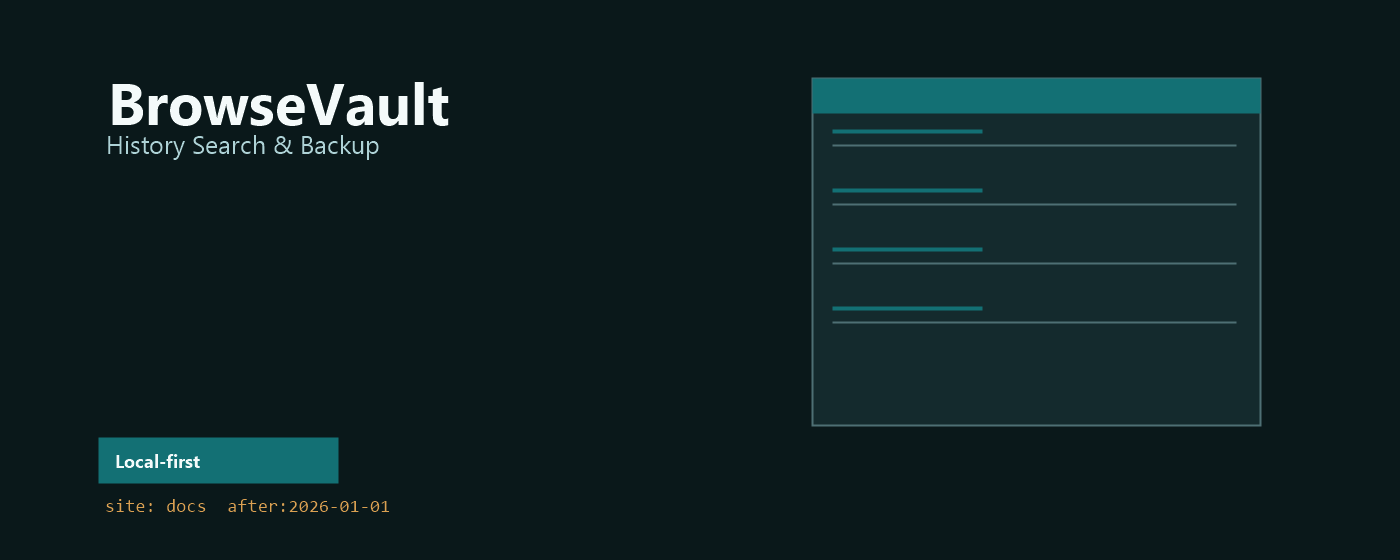
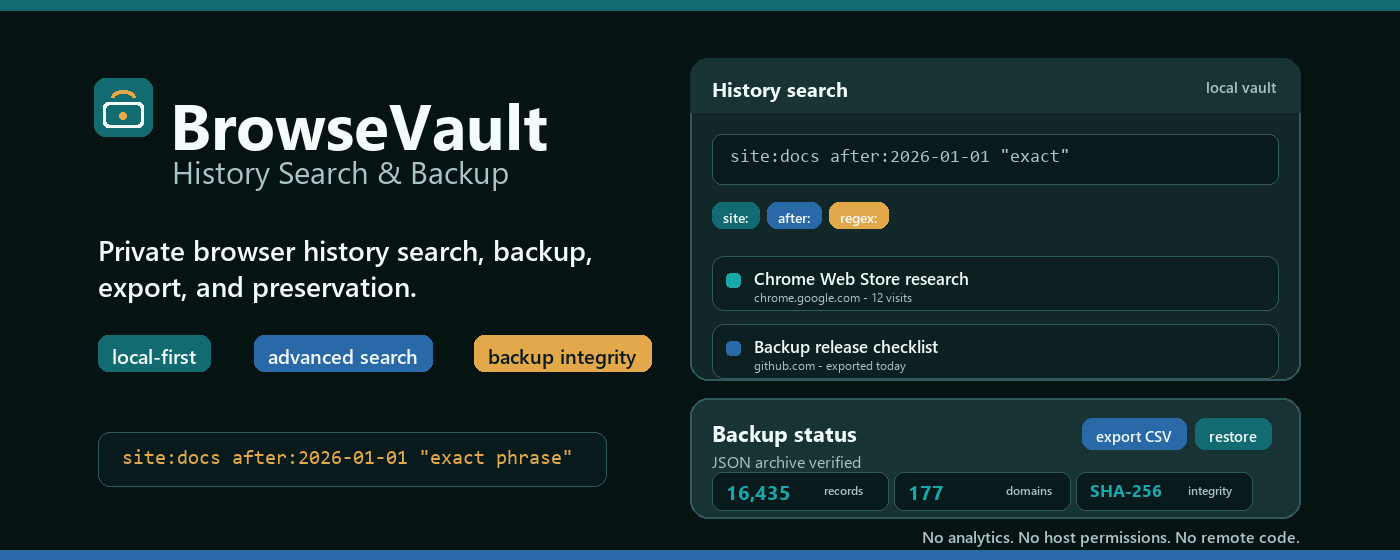
Improve Chrome Web Store promo assets

diff --git a/scripts/media/generate-store-media.py b/scripts/media/generate-store-media.py
@@ -1,0 +1,253 @@
+from pathlib import Path
+
+try:
+    from PIL import Image, ImageDraw, ImageFont
+except ImportError as exc:
+    raise SystemExit("Pillow is required to regenerate store media: python -m pip install pillow") from exc
+
+
+ROOT = Path(__file__).resolve().parents[2]
+PROMO_DIR = ROOT / "store-listing" / "chrome-web-store" / "media" / "promo"
+
+COLORS = {
+    "bg": "#061313",
+    "panel": "#112728",
+    "panel_2": "#173334",
+    "line": "#31585B",
+    "muted": "#A9C5C7",
+    "text": "#F4FBFB",
+    "teal": "#18A8AA",
+    "teal_dark": "#126B70",
+    "blue": "#2A69A7",
+    "gold": "#E2A84A",
+    "red": "#A12C3D",
+    "ink": "#081A1B",
+}
+
+FONT_CANDIDATES = {
+    "regular": [
+        "C:/Windows/Fonts/segoeui.ttf",
+        "/usr/share/fonts/truetype/dejavu/DejaVuSans.ttf",
+        "/Library/Fonts/Arial.ttf",
+    ],
+    "semibold": [
+        "C:/Windows/Fonts/seguisb.ttf",
+        "C:/Windows/Fonts/segoeuib.ttf",
+        "/usr/share/fonts/truetype/dejavu/DejaVuSans-Bold.ttf",
+        "/Library/Fonts/Arial Bold.ttf",
+    ],
+    "bold": [
+        "C:/Windows/Fonts/segoeuib.ttf",
+        "/usr/share/fonts/truetype/dejavu/DejaVuSans-Bold.ttf",
+        "/Library/Fonts/Arial Bold.ttf",
+    ],
+    "mono": [
+        "C:/Windows/Fonts/consola.ttf",
+        "/usr/share/fonts/truetype/dejavu/DejaVuSansMono.ttf",
+        "/Library/Fonts/Menlo.ttc",
+    ],
+}
+
+
+def load_font(size, style="regular"):
+    for candidate in FONT_CANDIDATES[style]:
+        if Path(candidate).exists():
+            return ImageFont.truetype(candidate, size)
+    return ImageFont.load_default(size=size)
+
+
+def draw_text(draw, xy, value, size, fill=None, style="regular", anchor=None):
+    draw.text(
+        xy,
+        value,
+        font=load_font(size, style),
+        fill=fill or COLORS["text"],
+        anchor=anchor,
+    )
+
+
+def text_width(value, size, style="regular"):
+    font = load_font(size, style)
+    left, _top, right, _bottom = font.getbbox(value)
+    return right - left
+
+
+def rounded(draw, xy, radius, fill, outline=None, width=1):
+    draw.rounded_rectangle(xy, radius=radius, fill=fill, outline=outline, width=width)
+
+
+def chip(draw, xy, label, fill, text_fill=None, pad_x=14, pad_y=8, size=17):
+    x, y = xy
+    width = text_width(label, size, "semibold") + pad_x * 2
+    height = size + pad_y * 2
+    rounded(draw, (x, y, x + width, y + height), 10, fill)
+    draw_text(draw, (x + pad_x, y + pad_y - 1), label, size, text_fill or COLORS["text"], "semibold")
+    return width
+
+
+def card(draw, xy, radius=18, fill=None):
+    rounded(draw, xy, radius, fill or COLORS["panel"], COLORS["line"], 2)
+
+
+def vault_mark(draw, xy, size):
+    x, y = xy
+    rounded(draw, (x, y, x + size, y + size), max(8, size // 5), COLORS["teal_dark"])
+    inset = max(5, size // 6)
+    body_y = y + int(size * 0.42)
+    rounded(
+        draw,
+        (x + inset, body_y, x + size - inset, y + size - inset),
+        max(3, size // 10),
+        COLORS["text"],
+    )
+    rounded(
+        draw,
+        (x + inset + 3, body_y + 3, x + size - inset - 3, y + size - inset - 3),
+        max(2, size // 12),
+        COLORS["teal_dark"],
+    )
+    shackle_w = int(size * 0.42)
+    shackle_h = int(size * 0.25)
+    shackle_x = x + (size - shackle_w) // 2
+    draw.arc(
+        (shackle_x, y + int(size * 0.22), shackle_x + shackle_w, y + int(size * 0.22) + shackle_h),
+        180,
+        360,
+        fill=COLORS["gold"],
+        width=max(3, size // 12),
+    )
+    rounded(
+        draw,
+        (x + int(size * 0.44), y + int(size * 0.60), x + int(size * 0.56), y + int(size * 0.72)),
+        3,
+        COLORS["gold"],
+    )
+
+
+def mini_result(draw, x, y, width, title, meta, accent=COLORS["teal"]):
+    rounded(draw, (x, y, x + width, y + 54), 12, "#0D2021", COLORS["line"], 1)
+    rounded(draw, (x + 14, y + 17, x + 28, y + 31), 4, accent)
+    draw_text(draw, (x + 42, y + 10), title, 17, COLORS["text"], "semibold")
+    draw_text(draw, (x + 42, y + 33), meta, 12, COLORS["muted"], "regular")
+
+
+def search_card(draw, x, y, width, height):
+    card(draw, (x, y, x + width, y + height), 18)
+    header_h = 54
+    rounded(draw, (x, y, x + width, y + header_h), 18, COLORS["panel_2"])
+    draw.rectangle((x, y + header_h - 18, x + width, y + header_h), fill=COLORS["panel_2"])
+    draw_text(draw, (x + 22, y + 17), "History search", 20, style="bold")
+    draw_text(draw, (x + width - 24, y + 18), "local vault", 15, COLORS["muted"], "semibold", "ra")
+
+    search_y = y + header_h + 22
+    rounded(draw, (x + 22, search_y, x + width - 22, search_y + 50), 10, COLORS["ink"], COLORS["line"], 1)
+    draw_text(draw, (x + 40, search_y + 14), 'site:docs after:2026-01-01 "exact"', 18, COLORS["muted"], "mono")
+
+    chips_y = search_y + 68
+    cursor = x + 22
+    for label, fill in [
+        ("site:", COLORS["teal_dark"]),
+        ("after:", COLORS["blue"]),
+        ("regex:", COLORS["gold"]),
+    ]:
+        cursor += chip(draw, (cursor, chips_y), label, fill, size=14, pad_x=11, pad_y=6) + 8
+
+    result_y = chips_y + 54
+    mini_result(draw, x + 22, result_y, width - 44, "Chrome Web Store research", "chrome.google.com - 12 visits", COLORS["teal"])
+    mini_result(draw, x + 22, result_y + 68, width - 44, "Backup release checklist", "github.com - exported today", COLORS["blue"])
+
+
+def backup_card(draw, x, y, width, height):
+    card(draw, (x, y, x + width, y + height), 18, COLORS["panel_2"])
+    draw_text(draw, (x + 22, y + 20), "Backup status", 22, style="bold")
+    draw_text(draw, (x + 22, y + 52), "JSON archive verified", 16, COLORS["muted"], "regular")
+    chip(draw, (x + 392, y + 20), "export CSV", COLORS["blue"], size=15)
+    chip(draw, (x + 505, y + 20), "restore", COLORS["teal_dark"], size=15)
+    rows = [
+        ("16,435", "records"),
+        ("177", "domains"),
+        ("SHA-256", "integrity"),
+    ]
+    row_y = y + 74
+    for index, (value, label) in enumerate(rows):
+        box_x = x + 22 + index * ((width - 64) // 3)
+        box_w = (width - 80) // 3
+        rounded(draw, (box_x, row_y, box_x + box_w, row_y + 38), 10, COLORS["ink"], COLORS["line"], 1)
+        draw_text(draw, (box_x + 14, row_y + 6), value, 20 if index != 2 else 17, COLORS["teal"], "bold")
+        draw_text(draw, (box_x + 112, row_y + 10), label, 12, COLORS["muted"], "semibold")
+
+
+def small_promo():
+    image = Image.new("RGB", (440, 280), COLORS["bg"])
+    draw = ImageDraw.Draw(image)
+
+    draw.rectangle((0, 0, 440, 6), fill=COLORS["teal_dark"])
+    vault_mark(draw, (30, 36), 34)
+    draw_text(draw, (74, 38), "BrowseVault", 25, style="bold")
+    draw_text(draw, (75, 69), "History Search & Backup", 12, COLORS["muted"], "regular")
+
+    chip(draw, (34, 114), "Local vault", COLORS["teal_dark"], size=13, pad_x=11, pad_y=7)
+    chip(draw, (34, 154), "Search operators", COLORS["blue"], size=13, pad_x=11, pad_y=7)
+    chip(draw, (34, 194), "Backup + export", COLORS["gold"], COLORS["ink"], size=13, pad_x=11, pad_y=7)
+
+    rounded(draw, (250, 34, 408, 236), 16, COLORS["panel"], COLORS["line"], 2)
+    draw_text(draw, (266, 52), "Search vault", 16, style="bold")
+    rounded(draw, (266, 82, 392, 112), 8, COLORS["ink"], COLORS["line"], 1)
+    draw_text(draw, (278, 90), "site:docs", 10, COLORS["muted"], "mono")
+
+    for i, (title, meta, color) in enumerate(
+        [
+            ("Design notes", "8 visits", COLORS["teal"]),
+            ("Backup run", "JSON ok", COLORS["blue"]),
+            ("Restore check", "passed", COLORS["gold"]),
+        ]
+    ):
+        row_y = 128 + i * 34
+        rounded(draw, (266, row_y, 392, row_y + 28), 6, "#0D2021", COLORS["line"], 1)
+        rounded(draw, (276, row_y + 9, 288, row_y + 17), 3, color)
+        draw_text(draw, (296, row_y + 3), title, 9, COLORS["text"], "semibold")
+        draw_text(draw, (296, row_y + 16), meta, 7, COLORS["muted"], "regular")
+
+    draw_text(draw, (34, 248), 'after:2026-01-01  "exact"', 11, COLORS["gold"], "mono")
+    return image
+
+
+def marquee_promo():
+    image = Image.new("RGB", (1400, 560), COLORS["bg"])
+    draw = ImageDraw.Draw(image)
+
+    draw.rectangle((0, 0, 1400, 10), fill=COLORS["teal_dark"])
+    draw.rectangle((0, 550, 1400, 560), fill=COLORS["blue"])
+    vault_mark(draw, (94, 78), 58)
+    draw_text(draw, (170, 80), "BrowseVault", 64, style="bold")
+    draw_text(draw, (172, 150), "History Search & Backup", 31, COLORS["muted"], "regular")
+    draw_text(draw, (98, 230), "Private browser history search, backup,", 28, COLORS["text"], "semibold")
+    draw_text(draw, (98, 266), "export, and preservation.", 28, COLORS["text"], "semibold")
+
+    chip(draw, (98, 335), "local-first", COLORS["teal_dark"], size=20)
+    chip(draw, (254, 335), "advanced search", COLORS["blue"], size=20)
+    chip(draw, (474, 335), "backup integrity", COLORS["gold"], COLORS["ink"], size=20)
+    rounded(draw, (98, 432, 606, 486), 12, COLORS["ink"], COLORS["line"], 1)
+    draw_text(draw, (122, 449), 'site:docs after:2026-01-01 "exact phrase"', 20, COLORS["gold"], "mono")
+
+    search_card(draw, 690, 58, 610, 322)
+    backup_card(draw, 690, 398, 610, 120)
+
+    draw_text(draw, (1300, 525), "No analytics. No host permissions. No remote code.", 16, COLORS["muted"], "semibold", "ra")
+    return image
+
+
+def main():
+    PROMO_DIR.mkdir(parents=True, exist_ok=True)
+    outputs = [
+        ("small-promo.png", small_promo()),
+        ("marquee-promo.png", marquee_promo()),
+    ]
+
+    for filename, image in outputs:
+        image.save(PROMO_DIR / filename, optimize=True)
+        print(f"Generated {filename} ({image.width}x{image.height})")
+
+
+if __name__ == "__main__":
+    main()

diff --git a/README.md b/README.md
@@ -79,6 +79,7 @@ This repository contains a working Manifest V3 extension implementation. It incl
 - automated folder-density checks that enforce 12-file runtime/support/docs and 15-file feature-folder budgets;
 - versioned release notes in [`CHANGELOG.md`](CHANGELOG.md), including trust-sensitive behavior changes;
 - generated PNG extension icons;
+- generated Chrome Web Store promo PNGs;
 - deterministic runtime-only local ZIP packaging that excludes repo research, tests, scripts, StorePilot files, and feature docs;
 - copied research and product docs in [`docs/`](docs/);
 - Chrome Web Store listing notes in [`store/listing.md`](store/listing.md);
@@ -113,6 +114,7 @@ This repository contains a working Manifest V3 extension implementation. It incl
 │   ├── check-privacy-permissions.mjs
 │   ├── check-syntax.mjs
 │   ├── generate-icons.mjs
+│   ├── media/
 │   ├── package-extension.mjs
 │   ├── verify-package.mjs
 │   └── validate-extension.mjs
@@ -172,6 +174,7 @@ npm run validate
 npm run check
 npm test
 npm run icons
+npm run store:media
 npm run package
 npm run verify:package
 ```
@@ -179,6 +182,8 @@ npm run verify:package
 `npm run validate` also enforces the current trust baseline: exact manifest permissions, no host permissions, no optional permission prompts, no content scripts, no web-accessible resources, no external extension messaging surface, no remote source URLs, no source-level network APIs or dynamic code loaders, and no default `chrome_url_overrides` replacement of Chrome history.
 
 `npm run check` verifies JavaScript syntax, static import targets, extension-page module script paths, manifest and extension UI locale message coverage, manifest file paths, privacy/permission disclosure parity, file-size budgets, and folder-density budgets so flat runtime/support and documentation folders stay at 12 files or fewer, while feature folders and feature test folders stay at 15 files or fewer before being split again. File-size debt is reported as warnings, and known hard-limit debt is capped so it cannot grow unnoticed.
+
+`npm run store:media` regenerates the Chrome Web Store promo PNGs in `store-listing/chrome-web-store/media/promo/`. It uses Python with Pillow as a development-only asset tool; the generated PNGs are committed and are not part of the extension runtime dependency graph.
 
 `npm run package` writes `dist/browsevault-1.0.0.zip` and verifies the final ZIP contents, including packaged manifest paths, locale messages, static import targets, and module script targets.
 

diff --git a/docs/release/release-qa.md b/docs/release/release-qa.md
@@ -7,6 +7,7 @@ This file records release verification status for the current BrowseVault packag
 Last verified for `1.0.0`:
 
 ```text
+npm run store:media
 npm run validate
 npm run check
 npm test
@@ -18,6 +19,7 @@ git diff --check
 Expected results:
 
 - extension validation passes;
+- Chrome Web Store promo PNGs regenerate at the required `440 x 280` and `1400 x 560` dimensions;
 - JavaScript syntax, static import resolution, extension-page module script path, manifest and extension UI locale coverage, manifest path, privacy/permission disclosure parity, file-size budget, and runtime/test/script/docs folder-density checks pass;
 - unit tests pass;
 - `dist/browsevault-1.0.0.zip` is produced;

diff --git a/store-listing/chrome-web-store/README.md b/store-listing/chrome-web-store/README.md
@@ -14,6 +14,7 @@ Reference: [StorePilot Project Reference](../../../StorePilot/docs/reference.md)
   - `05-settings-privacy.jpg`
 - `media/promo/small-promo.png` is `440 x 280`.
 - `media/promo/marquee-promo.png` is `1400 x 560`.
+- The promo PNGs can be regenerated with `npm run store:media`.
 - Dashboard-only values live in `docs/chrome-web-store-additional-fields.md`, `docs/chrome-web-store-category.md`, and `docs/chrome-web-store-privacy-form.md`.
 - `docs/chrome-web-store-privacy-form.md` is not the public privacy policy. Keep the default extension privacy policy in `PRIVACY.md`.
 